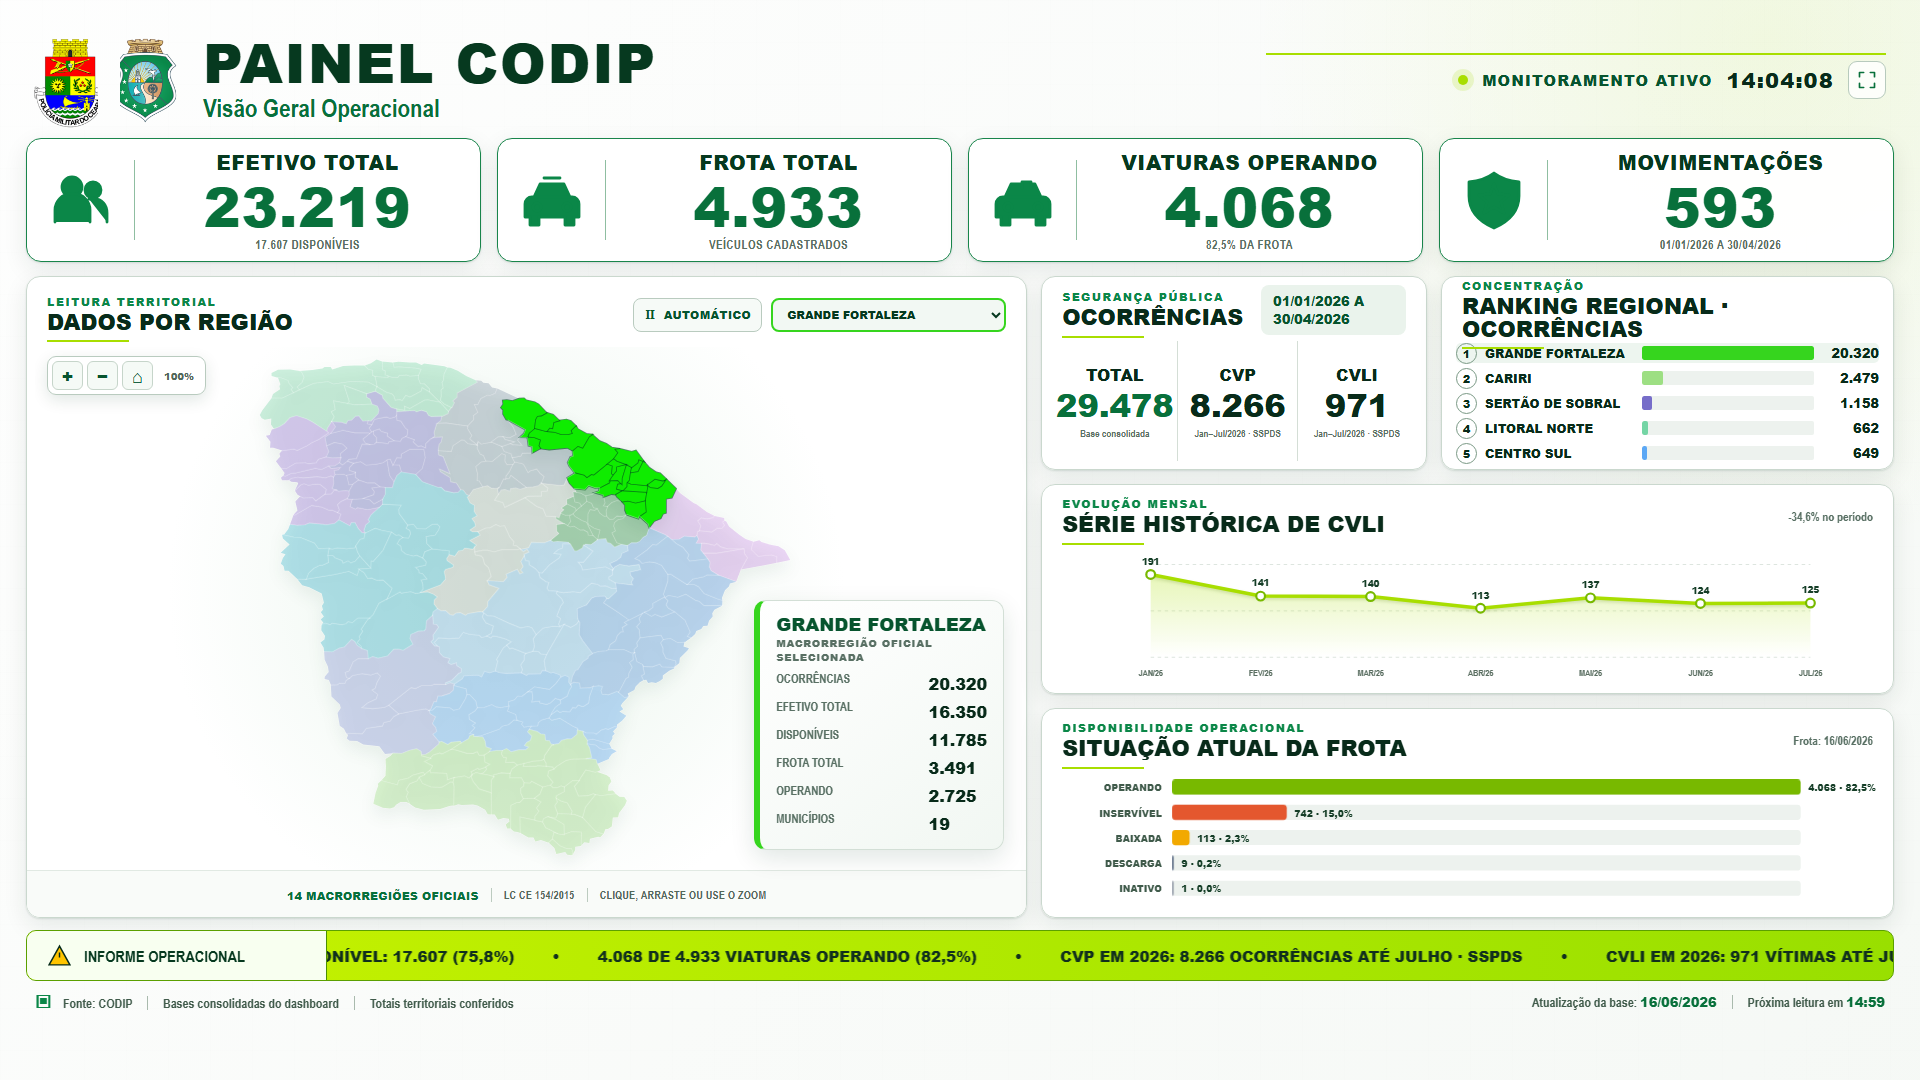
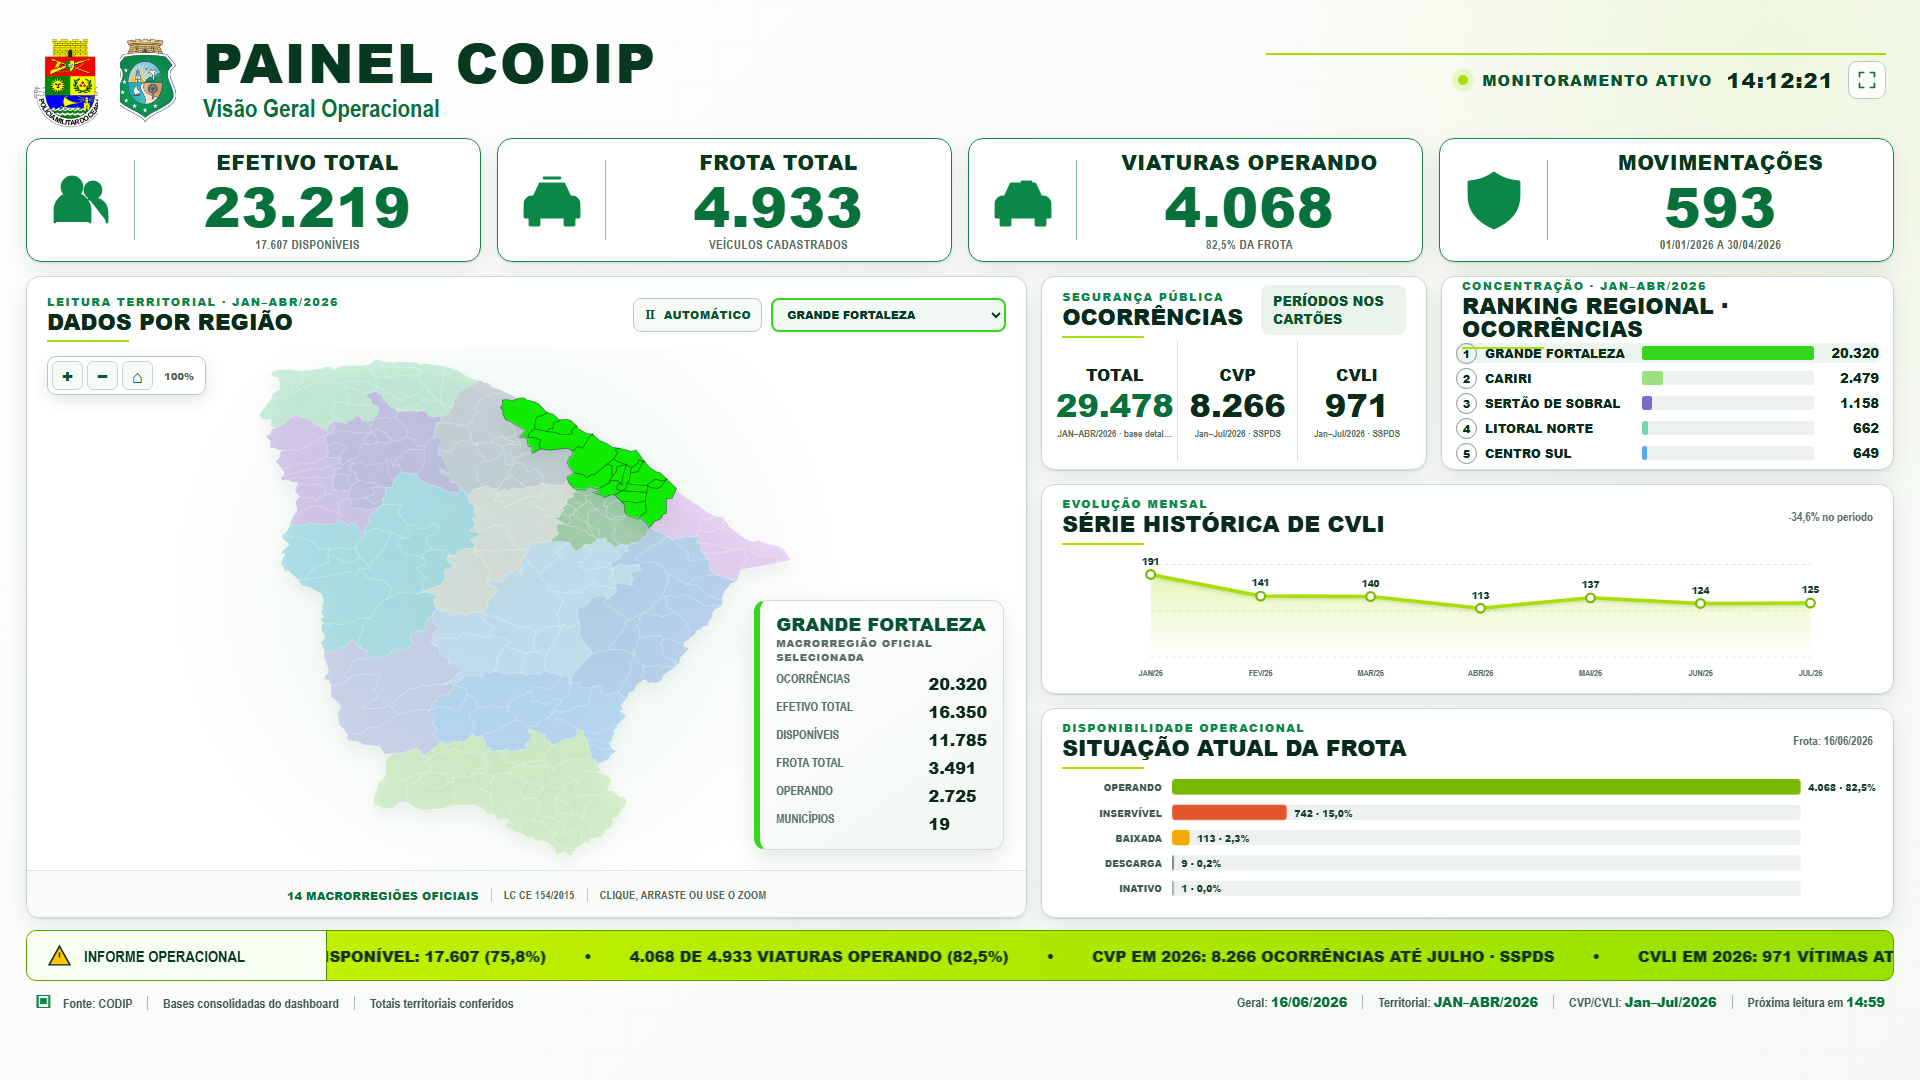
Ajusta datas de referência do painel

diff --git a/app.js b/app.js
@@ -70,6 +70,17 @@
     return String(row.mesLabel || row.periodo || "").slice(0, 8).toUpperCase();
   }
 
+  function formatMonthRange(period) {
+    if (!period || typeof period !== "object") return "Base atual";
+    const start = String(period.inicio || "").match(/^(\d{4})-(\d{2})/);
+    const end = String(period.fim || "").match(/^(\d{4})-(\d{2})/);
+    if (!start || !end) return formatPeriod(period);
+    const startLabel = monthNames[Number(start[2]) - 1] || start[2];
+    const endLabel = monthNames[Number(end[2]) - 1] || end[2];
+    if (start[1] === end[1]) return start[2] === end[2] ? `${startLabel}/${start[1]}` : `${startLabel}–${endLabel}/${start[1]}`;
+    return `${startLabel}/${start[1]}–${endLabel}/${end[1]}`;
+  }
+
   function fitStage() {
     const scale = Math.min(window.innerWidth / 1920, window.innerHeight / 1080);
     byId("tvStage").style.transform = `translate(-50%, -50%) scale(${scale})`;
@@ -464,12 +475,19 @@
     byId("movementTotal").textContent = fmt(movement.total);
     byId("movementPeriod").textContent = movement.periodo || "Período da base";
     byId("crimeTotal").textContent = fmt(crimeSummary.ocorrencias);
+    const territorialPeriod = formatMonthRange(CRIME.periodo);
+    const stateCrimePeriod = CRIME.cvpSource?.periodoLabel || CRIME.cvliSource?.periodoLabel || formatMonthRange(CRIME.cvpPeriodo || CRIME.cvliPeriodo || CRIME.periodo);
+    byId("crimeDelta").textContent = `${territorialPeriod} · base detalhada`;
     byId("cvpTotal").textContent = fmt(crimeSummary.cvp);
     byId("cvpHint").textContent = `${CRIME.cvpSource?.periodoLabel || formatPeriod(CRIME.cvpPeriodo || CRIME.periodo)} · SSPDS`;
     byId("cvliTotal").textContent = fmt(crimeSummary.cvli);
     byId("cvliHint").textContent = `${CRIME.cvliSource?.periodoLabel || formatPeriod(CRIME.cvliPeriodo || CRIME.periodo)} · SSPDS`;
-    byId("crimePeriod").textContent = formatPeriod(CRIME.periodo);
+    byId("crimePeriod").textContent = "Períodos nos cartões";
+    byId("territorialPeriod").textContent = `Leitura territorial · ${territorialPeriod}`;
+    byId("rankingPeriod").textContent = `Concentração · ${territorialPeriod}`;
     byId("updatedAt").textContent = DATA.generatedAt || "—";
+    byId("territorialUpdatedAt").textContent = territorialPeriod;
+    byId("stateCrimeUpdatedAt").textContent = stateCrimePeriod;
     byId("fleetBaseDate").textContent = `Frota: ${DATA.sources.vehiclesUpdatedAt || DATA.generatedAt || "base atual"}`;
     const checksOk = DATA.validation.territorialChecks?.todosConferem === true;
     byId("dataQuality").textContent = checksOk ? "Totais territoriais conferidos" : "Revisar validação territorial";

diff --git a/index.html b/index.html
@@ -53,7 +53,7 @@
     <section class="main-grid">
       <article class="panel map-panel">
         <div class="panel-heading">
-          <div><span class="eyebrow">Leitura territorial</span><h2>Dados por região</h2></div>
+          <div><span class="eyebrow" id="territorialPeriod">Leitura territorial</span><h2>Dados por região</h2></div>
           <div class="map-actions">
             <button id="mapAutoButton" class="map-auto-button" type="button" aria-pressed="true" title="Pausar rotação automática">
               <span class="map-auto-icon" aria-hidden="true">Ⅱ</span><span id="mapAutoLabel">Automático</span>
@@ -83,7 +83,7 @@
           <article class="panel occurrences-panel">
             <div class="panel-heading compact">
               <div><span class="eyebrow">Segurança pública</span><h2>Ocorrências</h2></div>
-              <span class="period-chip" id="crimePeriod">Base atual</span>
+              <span class="period-chip" id="crimePeriod">Períodos nos cartões</span>
             </div>
             <div class="occurrence-grid">
               <div class="occurrence main"><span>Total</span><strong id="crimeTotal">—</strong><small id="crimeDelta">Base consolidada</small></div>
@@ -93,7 +93,7 @@
           </article>
 
           <article class="panel ranking-panel">
-            <div class="panel-heading compact"><div><span class="eyebrow">Concentração</span><h2>Ranking regional · ocorrências</h2></div></div>
+            <div class="panel-heading compact"><div><span class="eyebrow" id="rankingPeriod">Concentração</span><h2>Ranking regional · ocorrências</h2></div></div>
             <div id="regionRanking" class="ranking"></div>
           </article>
         </div>
@@ -124,7 +124,7 @@
 
     <footer>
       <div><span class="calendar-icon">▣</span> Fonte: CODIP <i></i> Bases consolidadas do dashboard <i></i> <span id="dataQuality">Validação territorial</span></div>
-      <div>Atualização da base: <strong id="updatedAt">—</strong> <i></i> Próxima leitura em <strong id="refreshCountdown">15:00</strong></div>
+      <div>Geral: <strong id="updatedAt">—</strong> <i></i> Territorial: <strong id="territorialUpdatedAt">—</strong> <i></i> CVP/CVLI: <strong id="stateCrimeUpdatedAt">—</strong> <i></i> Próxima leitura em <strong id="refreshCountdown">15:00</strong></div>
     </footer>
   </main>
 
